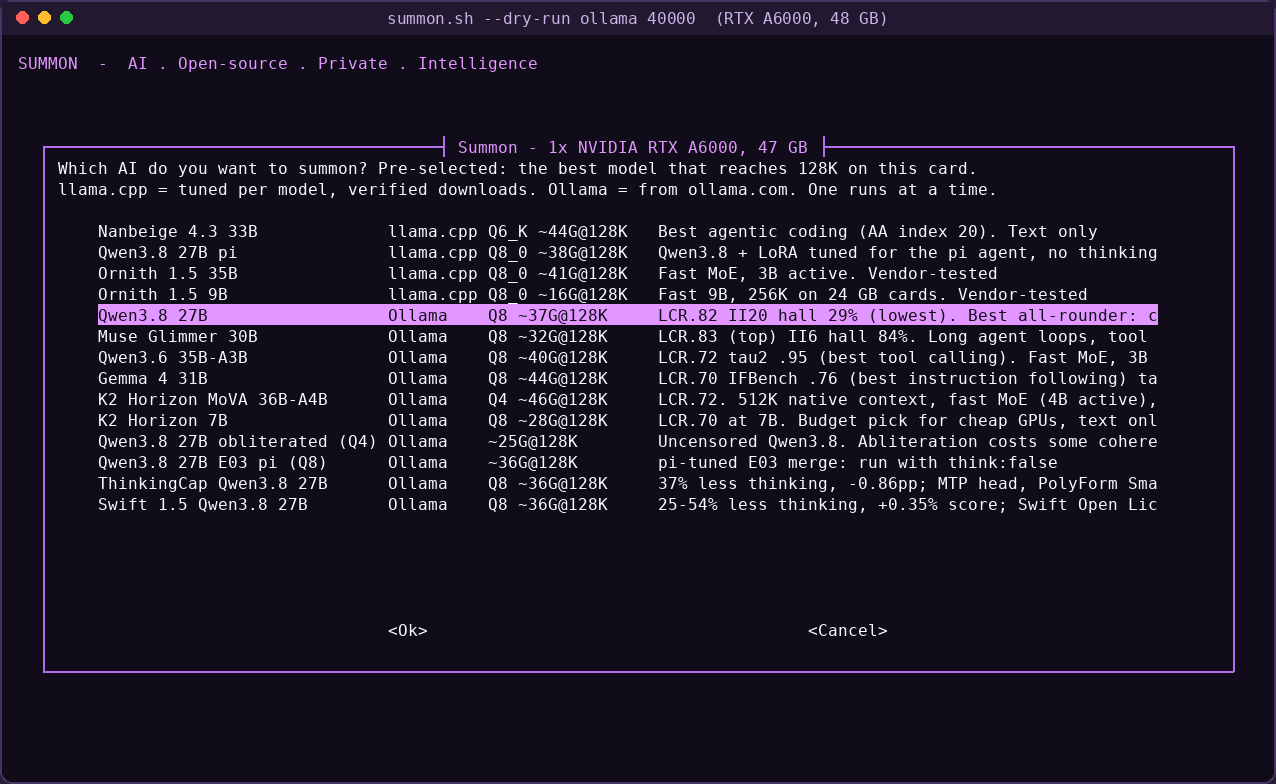
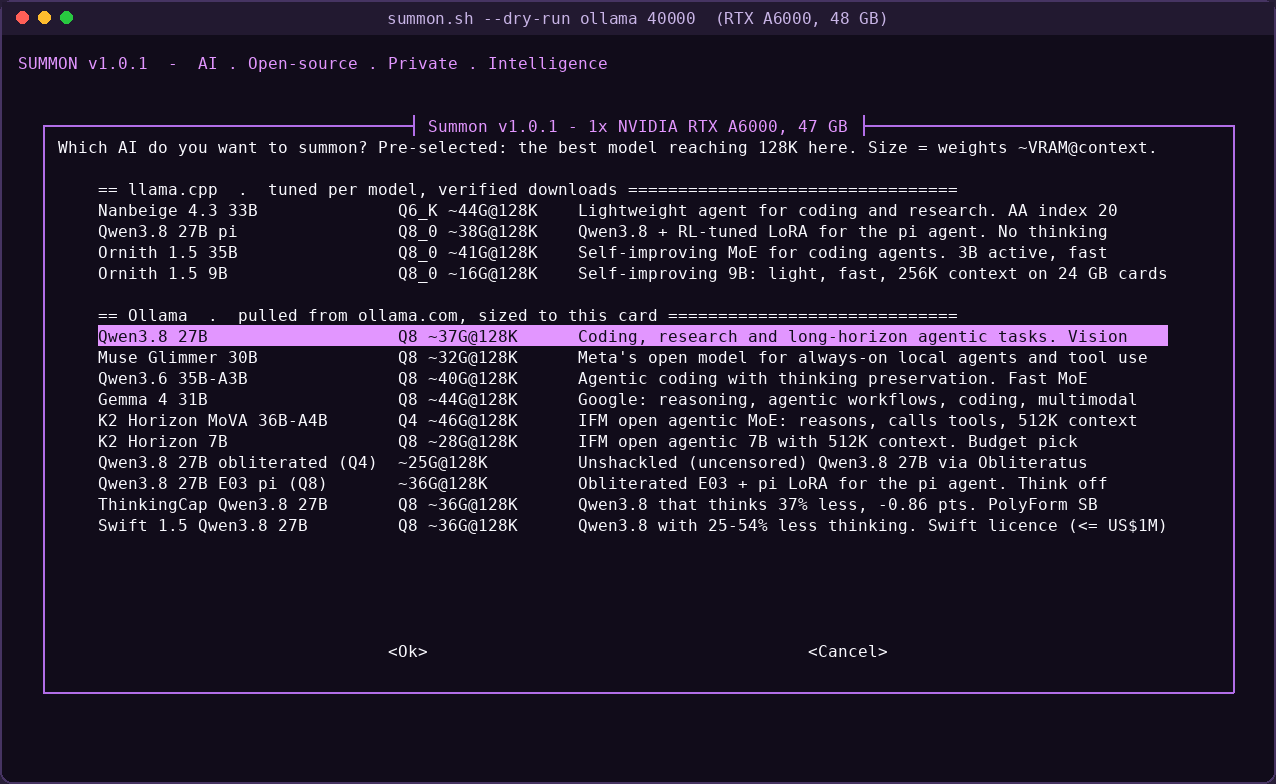
v1.0.1: one spaced-out menu with model descriptions, port asked last
- Merged menu grouped by engine (headers + gap), a description from each model's card, fit per card; one screen
  (compact list on short terminals), descriptions cut to the window width
- Port prompt moved after model/context/weights; prompts default sanely without a terminal
- whiptail labels can't start with '-' (it read them as options); --version; CHANGELOG

diff --git a/docs/index.html b/docs/index.html
@@ -62,6 +62,7 @@
   <div class="stars">✦ · ✦ · ✦</div>
   <h1 class="logo">SUMMON</h1>
   <p class="tag">AI · Open-source · Private · Intelligence</p>
+  <p class="note" style="margin:6px 0 0">v1.0.1 · <a href="https://github.com/codyvolckmar/summon/blob/main/CHANGELOG.md">what's new</a></p>
   <p class="lede">One command turns your NVIDIA GPU into a <b>private AI</b> with an OpenAI-compatible API.
     Summon picks the model, weights and context that fit <b>your</b> card, verifies the download, keeps the port private
     and tests tool calling before it hands you the URL. No cloud. No API bill. Nobody else's servers.</p>
@@ -141,7 +142,7 @@
 </section>
 
 <footer>
-  Summon · open source (MIT) · <a href="https://github.com/codyvolckmar/summon">github.com/codyvolckmar/summon</a><br>
+  Summon v1.0.1 · open source (MIT) · <a href="https://github.com/codyvolckmar/summon">github.com/codyvolckmar/summon</a><br>
   Models belong to their creators and carry their own licences: Nanbeige (Apache-2.0), Ornith (MIT), Ollama models as listed.
 </footer>
 </div>

diff --git a/tools/hero.py b/tools/hero.py
@@ -11,9 +11,9 @@ B = '/usr/share/fonts/truetype/dejavu/DejaVuSansMono-Bold.ttf'
 R = '/usr/share/fonts/truetype/dejavu/DejaVuSans.ttf'
 RB = '/usr/share/fonts/truetype/dejavu/DejaVuSans-Bold.ttf'
 PANELS = [   # one merged menu, two cards: the same models, re-sized to the VRAM each card has
-    ('01-model-menu-a6000.png', (40, 140, 1240, 520), '48 GB card', ['Nanbeige 4.3 33B', '128K · Q6_K'],
+    ('01-model-menu-a6000.png', (40, 118, 1240, 560), '48 GB card', ['Nanbeige 4.3 33B', '128K · Q6_K'],
      'Pre-selected. 14 models,\nllama.cpp + Ollama, one list'),
-    ('06-model-menu-3090.png', (40, 140, 1240, 520), '24 GB card', ['Ornith 1.5 9B', '128K · Q8_0'],
+    ('06-model-menu-3090.png', (40, 118, 1240, 560), '24 GB card', ['Ornith 1.5 9B', '128K · Q8_0'],
      'Same list, re-sized: knows\nwhat fits and what won\'t'),
 ]
 
@@ -35,7 +35,7 @@ img.paste(grad, (0, 0), mask)
 d.text((330, 54), 'AI · OPEN-SOURCE · PRIVATE · INTELLIGENCE', font=tag, fill=(111, 214, 234))
 d.text((330, 82), 'One command turns your NVIDIA GPU into a private, OpenAI-compatible AI.', font=cap, fill=(214, 206, 228))
 
-PW, y = 960, 150
+PW, y = 840, 150
 for name, box, eng, models, note in PANELS:
     im = Image.open(os.path.join(IMG, name)).convert('RGB').crop(box)
     ph = int(im.height * PW / im.width)

diff --git a/tools/termshot.py b/tools/termshot.py
@@ -341,9 +341,9 @@ if __name__ == '__main__':
     env = dict(base, SUMMON_GPU='NVIDIA RTX A6000:49140')
     run(f'cd {root}; clear; echo "$ ./summon.sh --dry-run"; "{S}" --dry-run; sleep 30', env, [
         ('until', r'Which AI', 15), ('shot', '01-model-menu-a6000.png', 'summon.sh --dry-run  (RTX A6000, 48 GB)'),
-        ('key', ENTER), ('until', r'Port for the AI', 10), ('shot', '02-port.png', 'summon.sh --dry-run  (RTX A6000, 48 GB)'),
         ('key', ENTER), ('until', r'Step 1/2', 10), ('shot', '03-context-menu.png', 'summon.sh --dry-run  (RTX A6000, 48 GB)'),
         ('key', ENTER), ('until', r'Step 2/2', 10), ('shot', '04-weights-menu.png', 'summon.sh --dry-run  (RTX A6000, 48 GB)'),
+        ('key', ENTER), ('until', r'Last step: port', 10), ('shot', '02-port.png', 'summon.sh --dry-run  (RTX A6000, 48 GB)'),
         ('key', ENTER), ('until', r'Same, without menus', 10), ('shot', '05-dry-run-plan.png', 'summon.sh --dry-run  (RTX A6000, 48 GB)'),
     ], out)
     # 2) RTX 3090: the model menu pre-selects Ornith 9B

diff --git a/CHANGELOG.md b/CHANGELOG.md
@@ -1,0 +1,15 @@
+# Changelog
+
+## v1.0.1 (2026-11-19)
+
+- **One menu for every model.** llama.cpp and Ollama models share a single list, grouped under engine headers, with a description from each model's card and what fits on your card (weights ~VRAM@context, or TOO BIG). It fits on one screen; short terminals get a compact list.
+- **The port is the last question**, after the model, context and weights.
+- **New models:** Qwen3.8 27B pi (Qwen3.8 27B + harness-hub's pi-adapted LoRA, on llama.cpp) and `robit/qwen3.8-27b-e03-pi-adapted` (Ollama, Q8_0).
+- **LoRA support** in the llama.cpp catalog: adapters are downloaded, verified and counted in the VRAM fit like the weights.
+- Community and Hugging Face Ollama models are opt-in; `ONLY=1,3` pulls several Ollama models without the menu.
+- `--version`; the version shows in the banner and the menu title.
+- Fixes: menus no longer break on labels starting with `-`; prompts fall back to defaults when there is no terminal (e.g. `curl | bash` without a tty); dry runs flag Ollama models that don't fit.
+
+## v1.0.0 (2026-11-18)
+
+First public release: one-command setup for Nanbeige 4.3 33B, Ornith 1.5 35B/9B (llama.cpp) and a ranked Ollama list; dry runs, local/locked access, Linux and Windows (WSL 2) one-line installers, GitHub Pages site.

diff --git a/README.md b/README.md
@@ -1,6 +1,6 @@
 # Summon
 
-**AI · Open-source · Private · Intelligence**
+**AI · Open-source · Private · Intelligence**  ·  v1.0.1 ([changelog](CHANGELOG.md))
 
 One command turns your NVIDIA GPU into a private AI with an OpenAI-compatible API. Summon picks the model, weights and context that fit your card, verifies the download, keeps the port private and tests tool calling before it hands you the URL. No cloud, no API bill, nobody else's servers.
 
